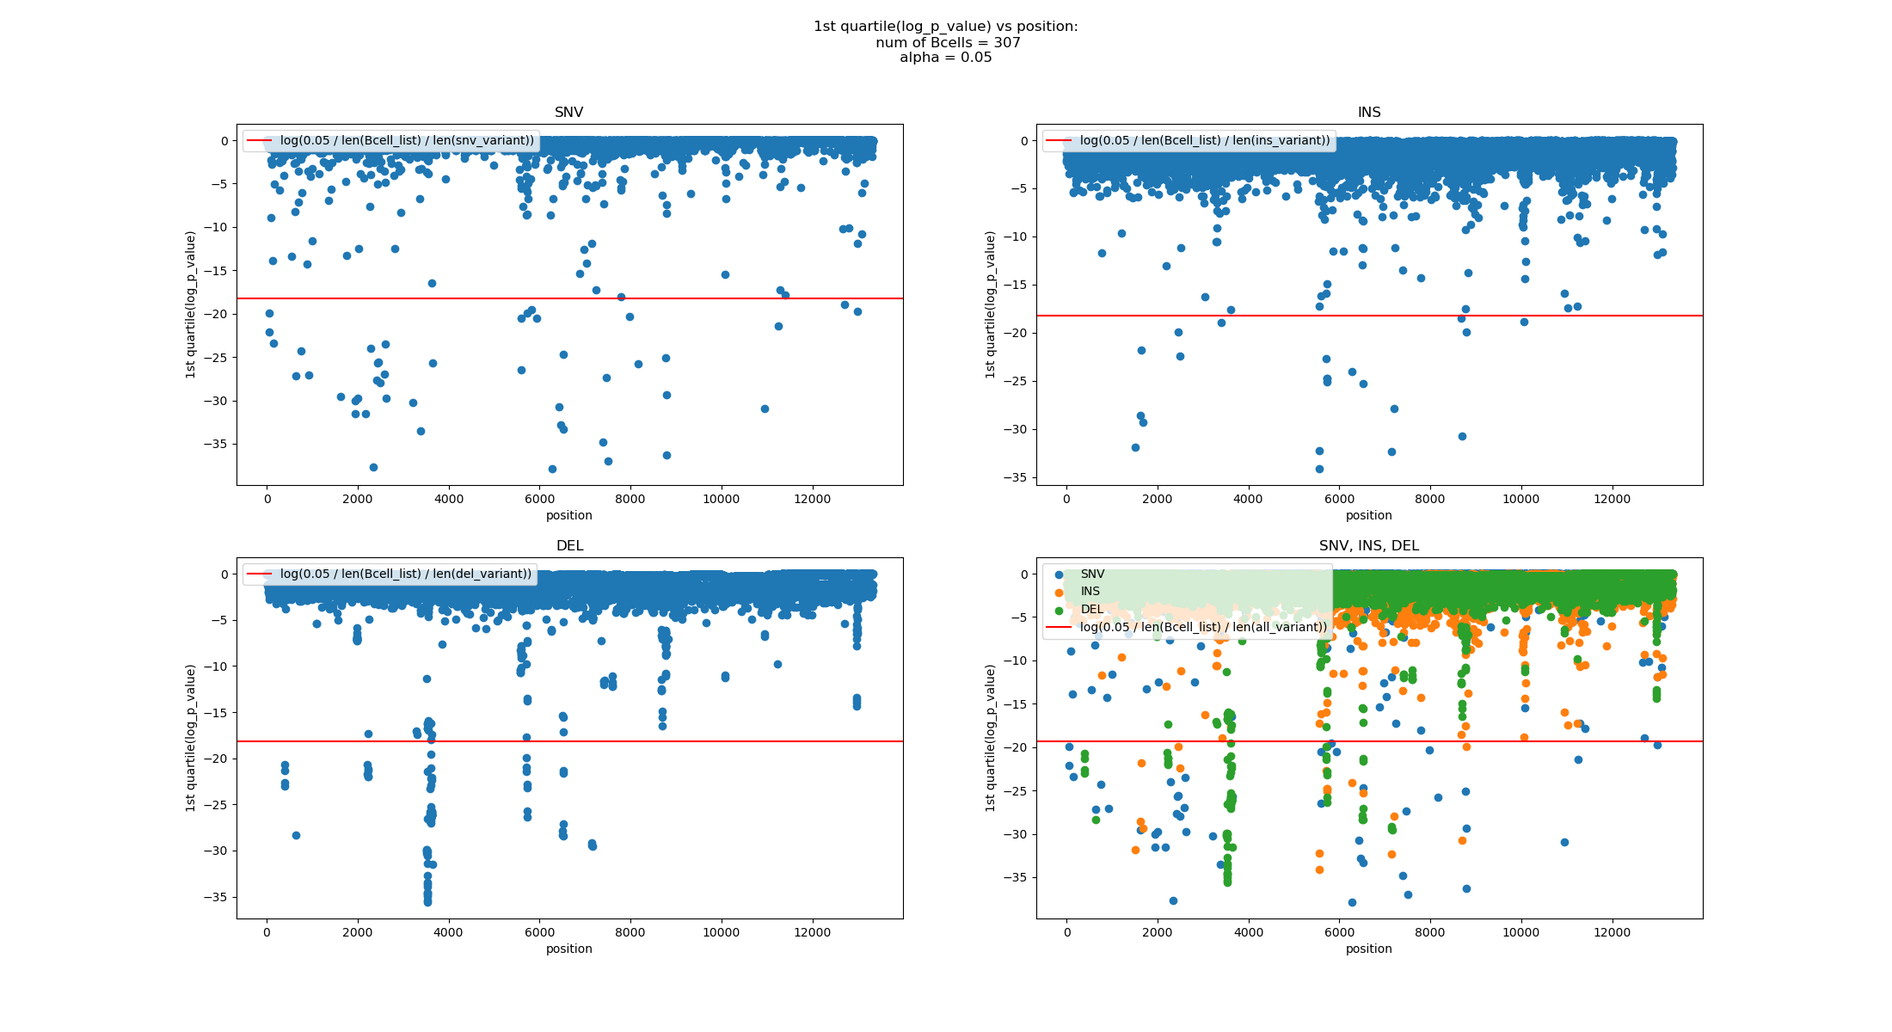
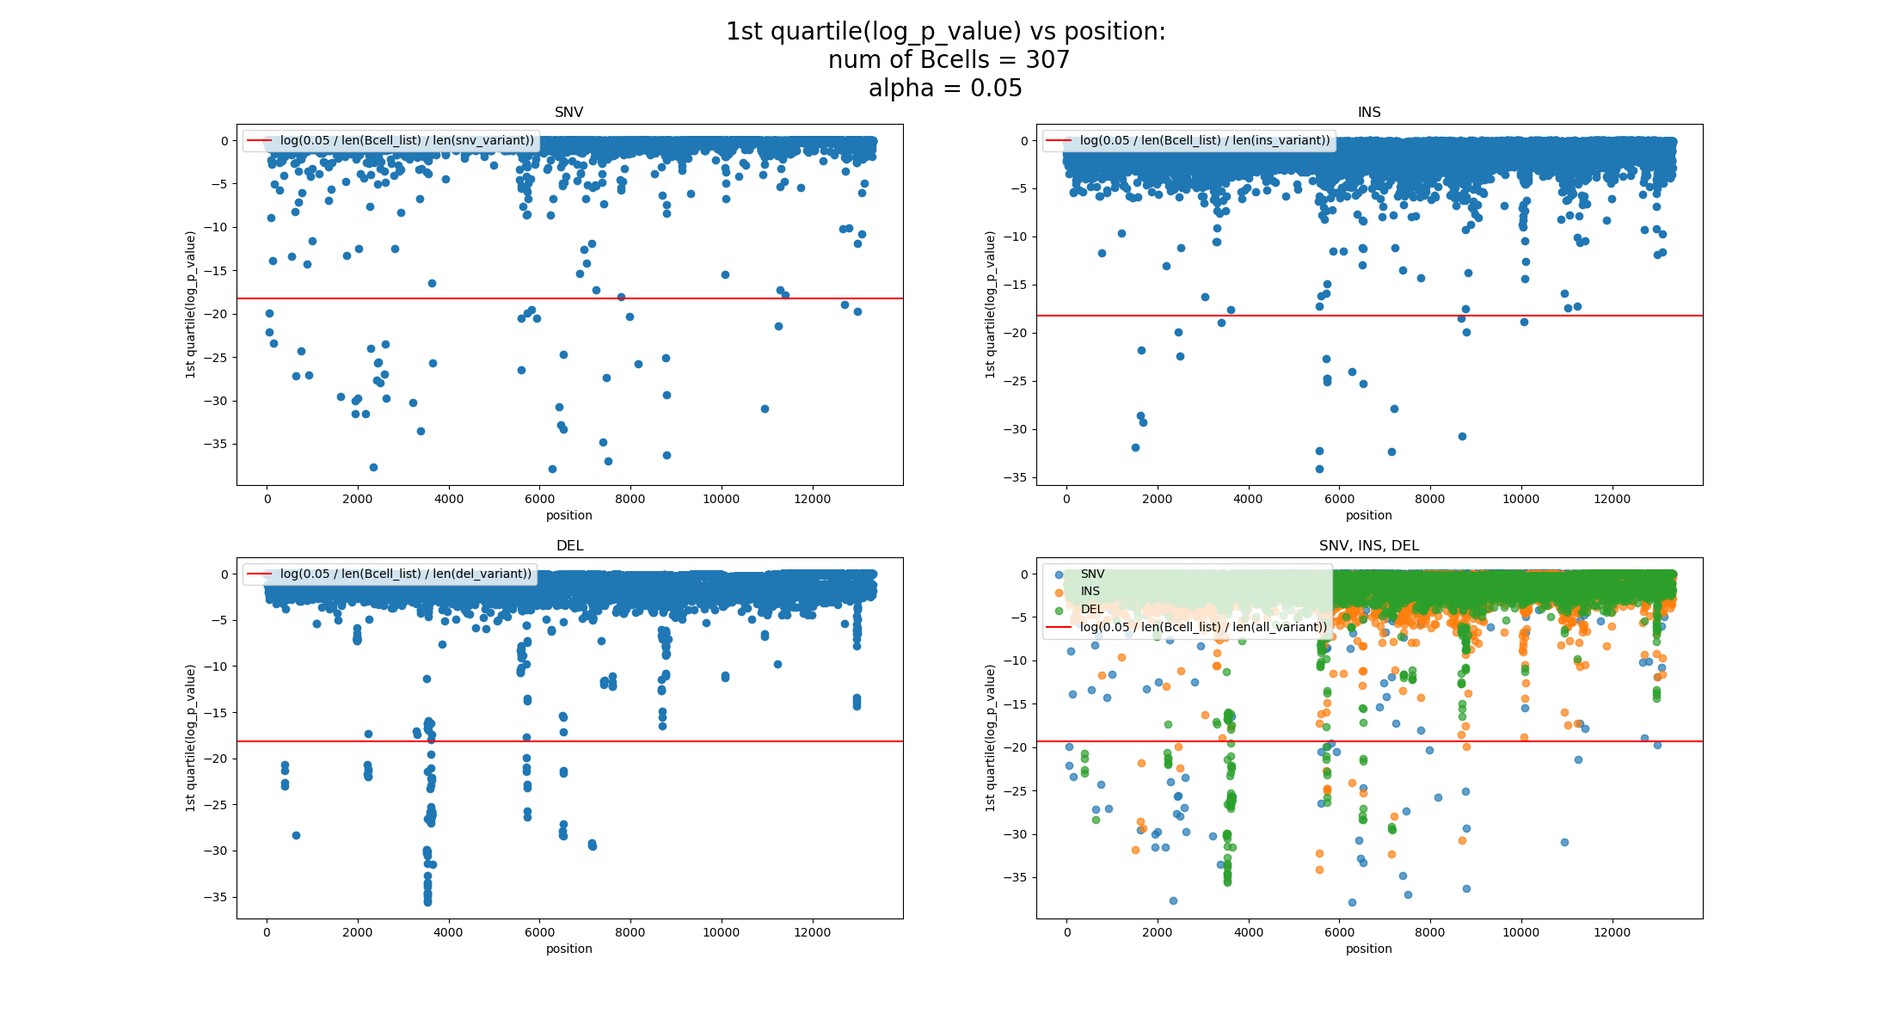
p-value -> probability

diff --git a/PSCA_variants/consensus/adhoc/internal_rDNAadhoc_variantcaller.py b/PSCA_variants/consensus/adhoc/internal_rDNAadhoc_variantcaller.py
@@ -221,158 +221,158 @@ gc.collect()
 
 
 
-# ------------------------------------------- calculate the log p-value for each site for each Bcell -------------------------------------------
+# ------------------------------------------- calculate the log prob for each site for each Bcell -------------------------------------------
 
-# pvalue_df = pd.DataFrame(columns=["POS", "log_P_SNV(Bcell_ID)", "log_P_INS(Bcell_ID)", "log_P_DEL(Bcell_ID)" for Bcell_ID in Bcell_IDlist])
-pvalue_df = pd.DataFrame(columns=["POS"])
-pvalue_df["POS"] = list(range(reflen))
+# prob_df = pd.DataFrame(columns=["POS", "log_P_SNV(Bcell_ID)", "log_P_INS(Bcell_ID)", "log_P_DEL(Bcell_ID)" for Bcell_ID in Bcell_IDlist])
+prob_df = pd.DataFrame(columns=["POS"])
+prob_df["POS"] = list(range(reflen))
 
 # calculate the log p-value for each site for each Bcell
 for Bcell in Bcell_IDlist:
     # poisson.log probability density function not probability mass function
-    # pvalue_df[f"log_P_{variant_type}({Bcell})"] = [log_continuous_poisson(df_posfreq_vs_Bcell[f"{variant_type}({Bcell})"][j], mean_vaf[j]) for j in range(reflen)]
+    # prob_df[f"log_P_{variant_type}({Bcell})"] = [log_continuous_poisson(df_posfreq_vs_Bcell[f"{variant_type}({Bcell})"][j], mean_vaf[j]) for j in range(reflen)]
     # log_p_value = log_continious_poisson(VariantCount_ij, mean_j * DP_ij): not VariantFrequency but VariantCount
-    # pvalue_df[f"log_P_{variant_type}({Bcell})"] = [log_continuous_poisson(df_posfreq_vs_Bcell[f"{variant_type}({Bcell})"][j] * DP_df[f"DP({Bcell})"][j], mean_vaf[j] * DP_df[f"DP({Bcell})"][j]) for j in range(reflen)]
+    # prob_df[f"log_P_{variant_type}({Bcell})"] = [log_continuous_poisson(df_posfreq_vs_Bcell[f"{variant_type}({Bcell})"][j] * DP_df[f"DP({Bcell})"][j], mean_vaf[j] * DP_df[f"DP({Bcell})"][j]) for j in range(reflen)]
  
     for variant_type in ["SNV", "INS", "DEL"]:
         if variant_type == "SNV":
             mean_vaf = mean_vaf_SNV
-            pvalue_df[f"log_P_SNV({Bcell})"] = [log_continuous_poisson(samples_vs_SNV_count[f"{Bcell}"][j], mean_vaf[j] * samples_vs_DP[f"{Bcell}"][j]) for j in range(reflen)]
+            prob_df[f"log_P_SNV({Bcell})"] = [log_continuous_poisson(samples_vs_SNV_count[f"{Bcell}"][j], mean_vaf[j] * samples_vs_DP[f"{Bcell}"][j]) for j in range(reflen)]
         elif variant_type == "INS":
             mean_vaf = mean_vaf_INS
-            pvalue_df[f"log_P_INS({Bcell})"] = [log_continuous_poisson(samples_vs_INS_count[f"{Bcell}"][j], mean_vaf[j] * samples_vs_DP[f"{Bcell}"][j]) for j in range(reflen)]
+            prob_df[f"log_P_INS({Bcell})"] = [log_continuous_poisson(samples_vs_INS_count[f"{Bcell}"][j], mean_vaf[j] * samples_vs_DP[f"{Bcell}"][j]) for j in range(reflen)]
         elif variant_type == "DEL":
             mean_vaf = mean_vaf_DEL
-            pvalue_df[f"log_P_DEL({Bcell})"] = [log_continuous_poisson(samples_vs_DEL_count[f"{Bcell}"][j], mean_vaf[j] * samples_vs_DP[f"{Bcell}"][j]) for j in range(reflen)]
+            prob_df[f"log_P_DEL({Bcell})"] = [log_continuous_poisson(samples_vs_DEL_count[f"{Bcell}"][j], mean_vaf[j] * samples_vs_DP[f"{Bcell}"][j]) for j in range(reflen)]
 
   
 # ------------------------------------------- export -------------------------------------------
-print(f"writing pvalue_df to {output_file_prefix}internal_logpvalue.csv")
+print(f"writing prob_df to {output_file_prefix}internal_logpvalue.csv")
 
 # remove the rows with all NA except POS
-# pvalue_df = pvalue_df.dropna(how="all", subset=pvalue_df.columns[1:])
-pvalue_df.to_csv(f"{output_file_prefix}internal_logpvalue.csv", sep=',', index=False, na_rep="")
+# prob_df = prob_df.dropna(how="all", subset=prob_df.columns[1:])
+prob_df.to_csv(f"{output_file_prefix}internal_logpvalue.csv", sep=',', index=False, na_rep="")
 
 # POS vs SNV log p-value
-output_snv = pvalue_df[["POS"] + [f"log_P_SNV({Bcell})" for Bcell in Bcell_IDlist]]
+output_snv = prob_df[["POS"] + [f"log_P_SNV({Bcell})" for Bcell in Bcell_IDlist]]
 # output_snv = output_snv.dropna(how="all", subset=output_snv.columns[1:])
 output_snv.to_csv(f"{output_file_prefix}internal_logpvalue_SNV.csv", sep=',', index=False, na_rep="")
 
 # POS vs INS log p-value
-output_ins = pvalue_df[["POS"] + [f"log_P_INS({Bcell})" for Bcell in Bcell_IDlist]]
+output_ins = prob_df[["POS"] + [f"log_P_INS({Bcell})" for Bcell in Bcell_IDlist]]
 # output_ins = output_ins.dropna(how="all", subset=output_ins.columns[1:])
 output_ins.to_csv(f"{output_file_prefix}internal_logpvalue_INS.csv", sep=',', index=False, na_rep="")
 # POS vs DEL log p-value
-output_del = pvalue_df[["POS"] + [f"log_P_DEL({Bcell})" for Bcell in Bcell_IDlist]]
+output_del = prob_df[["POS"] + [f"log_P_DEL({Bcell})" for Bcell in Bcell_IDlist]]
 # output_del = output_del.dropna(how="all", subset=output_del.columns[1:])
 output_del.to_csv(f"{output_file_prefix}internal_logpvalue_DEL.csv", sep=',', index=False, na_rep="")
 
 
-# ------------------------------------------- plot -------------------------------------------
-# plot the pvalue
+# # ------------------------------------------- plot -------------------------------------------
+# # plot the pvalue
 
-import matplotlib.pyplot as plt
+# import matplotlib.pyplot as plt
 
-# for each position j, plot the min_{Bcells i}(log_value_ij) vs j
+# # for each position j, plot the min_{Bcells i}(log_value_ij) vs j
 
-# use subplot and plot 
-    # 1. snv: pos vs min_{Bcells i}(log_value_ij)
-    # 2. ins: pos vs min_{Bcells i}(log_value_ij)
-    # 3. del: pos vs min_{Bcells i}(log_value_ij)
-    # 4. 3 plots in the same figure (different colors)
-    # * all figure have the y = log(0.05 / len(Bcell_list) / len(variant))
-    # in total, there are 4 figures
-alpha = 0.05
-fig = plt.figure(figsize=(22, 12))
+# # use subplot and plot 
+#     # 1. snv: pos vs min_{Bcells i}(log_value_ij)
+#     # 2. ins: pos vs min_{Bcells i}(log_value_ij)
+#     # 3. del: pos vs min_{Bcells i}(log_value_ij)
+#     # 4. 3 plots in the same figure (different colors)
+#     # * all figure have the y = log(0.05 / len(Bcell_list) / len(variant))
+#     # in total, there are 4 figures
+# alpha = 0.05
+# fig = plt.figure(figsize=(22, 12))
 
-log_alpha_limit = \
- log(alpha) - log(len(Bcell_IDlist)) - log((len(output_snv["POS"]) + len(output_ins["POS"]) + len(output_del["POS"])))
+# log_alpha_limit = \
+#  log(alpha) - log(len(Bcell_IDlist)) - log((len(output_snv["POS"]) + len(output_ins["POS"]) + len(output_del["POS"])))
 
-ax1 = fig.add_subplot(2, 2, 1)
-ax1.set_title("SNV")
-ax1.set_xlabel("position")
-ax1.set_ylabel("min(log_p_value)")
-# ax1.set_ylim(-10, 0)
-ax1.scatter(output_snv["POS"], [min([output_snv[f"log_P_SNV({Bcell})"][j] for Bcell in Bcell_IDlist]) for j in output_snv["POS"]])
-ax1.axhline(y=log(alpha) - log(len(Bcell_IDlist)) - log(len(output_snv["POS"])), color='r', linestyle='-', label="log(0.05 / len(Bcell_list) / len(snv_variant))")
-ax1.legend(loc = "upper left")
+# ax1 = fig.add_subplot(2, 2, 1)
+# ax1.set_title("SNV")
+# ax1.set_xlabel("position")
+# ax1.set_ylabel("min(log_p_value)")
+# # ax1.set_ylim(-10, 0)
+# ax1.scatter(output_snv["POS"], [min([output_snv[f"log_P_SNV({Bcell})"][j] for Bcell in Bcell_IDlist]) for j in output_snv["POS"]])
+# ax1.axhline(y=log(alpha) - log(len(Bcell_IDlist)) - log(len(output_snv["POS"])), color='r', linestyle='-', label="log(0.05 / len(Bcell_list) / len(snv_variant))")
+# ax1.legend(loc = "upper left")
 
-ax2 = fig.add_subplot(2, 2, 2)
-ax2.set_title("INS")
-ax2.set_xlabel("position")
-ax2.set_ylabel("min(log_p_value)")
-# ax2.set_ylim(-10, 0)
-ax2.scatter(output_ins["POS"], [min([output_ins[f"log_P_INS({Bcell})"][j] for Bcell in Bcell_IDlist]) for j in output_ins["POS"]])
-ax2.axhline(y=log(alpha) - log(len(Bcell_IDlist)) - log(len(output_ins["POS"])), color='r', linestyle='-', label="log(0.05 / len(Bcell_list) / len(ins_variant))")
-ax2.legend(loc = "upper left")
+# ax2 = fig.add_subplot(2, 2, 2)
+# ax2.set_title("INS")
+# ax2.set_xlabel("position")
+# ax2.set_ylabel("min(log_p_value)")
+# # ax2.set_ylim(-10, 0)
+# ax2.scatter(output_ins["POS"], [min([output_ins[f"log_P_INS({Bcell})"][j] for Bcell in Bcell_IDlist]) for j in output_ins["POS"]])
+# ax2.axhline(y=log(alpha) - log(len(Bcell_IDlist)) - log(len(output_ins["POS"])), color='r', linestyle='-', label="log(0.05 / len(Bcell_list) / len(ins_variant))")
+# ax2.legend(loc = "upper left")
 
-ax3 = fig.add_subplot(2, 2, 3)
-ax3.set_title("DEL")
-ax3.set_xlabel("position")
-ax3.set_ylabel("min(log_p_value)")
-# ax3.set_ylim(-10, 0)
-ax3.scatter(output_del["POS"], [min([output_del[f"log_P_DEL({Bcell})"][j] for Bcell in Bcell_IDlist]) for j in output_del["POS"]])
-ax3.axhline(y=log(alpha) - log(len(Bcell_IDlist)) - log(len(output_del["POS"])), color='r', linestyle='-', label="log(0.05 / len(Bcell_list) / len(del_variant))")
-ax3.legend(loc = "upper left")
-
-
-ax4 = fig.add_subplot(2, 2, 4)
-ax4.set_title("SNV, INS, DEL")
-ax4.set_xlabel("position")
-ax4.set_ylabel("min(log_p_value)")
-# ax4.set_ylim(-10, 0)
-ax4.scatter(output_snv["POS"], [min([output_snv[f"log_P_SNV({Bcell})"][j] for Bcell in Bcell_IDlist]) for j in output_snv["POS"]], label="SNV")
-ax4.scatter(output_ins["POS"], [min([output_ins[f"log_P_INS({Bcell})"][j] for Bcell in Bcell_IDlist]) for j in output_ins["POS"]], label="INS")
-ax4.scatter(output_del["POS"], [min([output_del[f"log_P_DEL({Bcell})"][j] for Bcell in Bcell_IDlist]) for j in output_del["POS"]], label="DEL")
-ax4.axhline(y=log(alpha) - log(len(Bcell_IDlist)) - log((len(output_snv["POS"]) + len(output_ins["POS"]) + len(output_del["POS"]))), color='r', linestyle='-', label="log(0.05 / len(Bcell_list) / len(all_variant))")
-ax4.legend(loc = "upper left")
+# ax3 = fig.add_subplot(2, 2, 3)
+# ax3.set_title("DEL")
+# ax3.set_xlabel("position")
+# ax3.set_ylabel("min(log_p_value)")
+# # ax3.set_ylim(-10, 0)
+# ax3.scatter(output_del["POS"], [min([output_del[f"log_P_DEL({Bcell})"][j] for Bcell in Bcell_IDlist]) for j in output_del["POS"]])
+# ax3.axhline(y=log(alpha) - log(len(Bcell_IDlist)) - log(len(output_del["POS"])), color='r', linestyle='-', label="log(0.05 / len(Bcell_list) / len(del_variant))")
+# ax3.legend(loc = "upper left")
 
 
-# save
-fig.savefig(f"{graph_dir}internal_minlogpvalue.png")
-print(f"{graph_dir}internal_minlogpvalue.png is saved")
+# ax4 = fig.add_subplot(2, 2, 4)
+# ax4.set_title("SNV, INS, DEL")
+# ax4.set_xlabel("position")
+# ax4.set_ylabel("min(log_p_value)")
+# # ax4.set_ylim(-10, 0)
+# ax4.scatter(output_snv["POS"], [min([output_snv[f"log_P_SNV({Bcell})"][j] for Bcell in Bcell_IDlist]) for j in output_snv["POS"]], label="SNV")
+# ax4.scatter(output_ins["POS"], [min([output_ins[f"log_P_INS({Bcell})"][j] for Bcell in Bcell_IDlist]) for j in output_ins["POS"]], label="INS")
+# ax4.scatter(output_del["POS"], [min([output_del[f"log_P_DEL({Bcell})"][j] for Bcell in Bcell_IDlist]) for j in output_del["POS"]], label="DEL")
+# ax4.axhline(y=log(alpha) - log(len(Bcell_IDlist)) - log((len(output_snv["POS"]) + len(output_ins["POS"]) + len(output_del["POS"]))), color='r', linestyle='-', label="log(0.05 / len(Bcell_list) / len(all_variant))")
+# ax4.legend(loc = "upper left")
 
 
-# the same plot but the y should be median(log_p_value) instead of min(log_p_value)
+# # save
+# fig.savefig(f"{graph_dir}internal_minlogpvalue.png")
+# print(f"{graph_dir}internal_minlogpvalue.png is saved")
 
-fig = plt.figure(figsize=(22, 12))
-fig.suptitle(f"median(log_p_value) vs position:\n num of Bcells = {len(Bcell_IDlist)}\n alpha = {alpha} ")
 
-ax1 = fig.add_subplot(2, 2, 1)
-ax1.set_title("SNV")
-ax1.set_xlabel("position")
-ax1.set_ylabel("median(log_p_value)")
-ax1.scatter(output_snv["POS"], [sorted([output_snv[f"log_P_SNV({Bcell})"][j] for Bcell in Bcell_IDlist])[len(Bcell_IDlist) // 2] for j in output_snv["POS"]])
-ax1.axhline(y=log(alpha) - log(len(Bcell_IDlist)) - log(len(output_snv["POS"])), color='r', linestyle='-', label="log(0.05 / len(Bcell_list) / len(snv_variant))")
-ax1.legend(loc = "upper left")
+# # the same plot but the y should be median(log_p_value) instead of min(log_p_value)
 
-ax2 = fig.add_subplot(2, 2, 2)
-ax2.set_title("INS")
-ax2.set_xlabel("position")
-ax2.set_ylabel("median(log_p_value)")
-ax2.scatter(output_ins["POS"], [sorted([output_ins[f"log_P_INS({Bcell})"][j] for Bcell in Bcell_IDlist])[len(Bcell_IDlist) // 2] for j in output_ins["POS"]])
-ax2.axhline(y=log(alpha) - log(len(Bcell_IDlist)) - log(len(output_ins["POS"])), color='r', linestyle='-', label="log(0.05 / len(Bcell_list) / len(ins_variant))")
-ax2.legend(loc = "upper left")
+# fig = plt.figure(figsize=(22, 12))
+# fig.suptitle(f"median(log_p_value) vs position:\n num of Bcells = {len(Bcell_IDlist)}\n alpha = {alpha} ")
 
-ax3 = fig.add_subplot(2, 2, 3)
-ax3.set_title("DEL")
-ax3.set_xlabel("position")
-ax3.set_ylabel("median(log_p_value)")
-ax3.scatter(output_del["POS"], [sorted([output_del[f"log_P_DEL({Bcell})"][j] for Bcell in Bcell_IDlist])[len(Bcell_IDlist) // 2] for j in output_del["POS"]])
-ax3.axhline(y=log(alpha) - log(len(Bcell_IDlist)) - log(len(output_del["POS"])), color='r', linestyle='-', label="log(0.05 / len(Bcell_list) / len(del_variant))")
-ax3.legend(loc = "upper left")
+# ax1 = fig.add_subplot(2, 2, 1)
+# ax1.set_title("SNV")
+# ax1.set_xlabel("position")
+# ax1.set_ylabel("median(log_p_value)")
+# ax1.scatter(output_snv["POS"], [sorted([output_snv[f"log_P_SNV({Bcell})"][j] for Bcell in Bcell_IDlist])[len(Bcell_IDlist) // 2] for j in output_snv["POS"]])
+# ax1.axhline(y=log(alpha) - log(len(Bcell_IDlist)) - log(len(output_snv["POS"])), color='r', linestyle='-', label="log(0.05 / len(Bcell_list) / len(snv_variant))")
+# ax1.legend(loc = "upper left")
 
-ax4 = fig.add_subplot(2, 2, 4)
-ax4.set_title("SNV, INS, DEL")
-ax4.set_xlabel("position")
-ax4.set_ylabel("median(log_p_value)")
-ax4.scatter(output_snv["POS"], [sorted([output_snv[f"log_P_SNV({Bcell})"][j] for Bcell in Bcell_IDlist])[len(Bcell_IDlist) // 2] for j in output_snv["POS"]], label="SNV")
-ax4.scatter(output_ins["POS"], [sorted([output_ins[f"log_P_INS({Bcell})"][j] for Bcell in Bcell_IDlist])[len(Bcell_IDlist) // 2] for j in output_ins["POS"]], label="INS")
-ax4.scatter(output_del["POS"], [sorted([output_del[f"log_P_DEL({Bcell})"][j] for Bcell in Bcell_IDlist])[len(Bcell_IDlist) // 2] for j in output_del["POS"]], label="DEL")
-ax4.axhline(y=log(alpha) - log(len(Bcell_IDlist)) - log((len(output_snv["POS"]) + len(output_ins["POS"]) + len(output_del["POS"]))), color='r', linestyle='-', label="log(0.05 / len(Bcell_list) / len(all_variant))")
-ax4.legend(loc = "upper left")
+# ax2 = fig.add_subplot(2, 2, 2)
+# ax2.set_title("INS")
+# ax2.set_xlabel("position")
+# ax2.set_ylabel("median(log_p_value)")
+# ax2.scatter(output_ins["POS"], [sorted([output_ins[f"log_P_INS({Bcell})"][j] for Bcell in Bcell_IDlist])[len(Bcell_IDlist) // 2] for j in output_ins["POS"]])
+# ax2.axhline(y=log(alpha) - log(len(Bcell_IDlist)) - log(len(output_ins["POS"])), color='r', linestyle='-', label="log(0.05 / len(Bcell_list) / len(ins_variant))")
+# ax2.legend(loc = "upper left")
 
-# save
-fig.savefig(f"{graph_dir}internal_medianlogpvalue.png")
-print(f"{graph_dir}internal_medianlogpvalue.png is saved")
+# ax3 = fig.add_subplot(2, 2, 3)
+# ax3.set_title("DEL")
+# ax3.set_xlabel("position")
+# ax3.set_ylabel("median(log_p_value)")
+# ax3.scatter(output_del["POS"], [sorted([output_del[f"log_P_DEL({Bcell})"][j] for Bcell in Bcell_IDlist])[len(Bcell_IDlist) // 2] for j in output_del["POS"]])
+# ax3.axhline(y=log(alpha) - log(len(Bcell_IDlist)) - log(len(output_del["POS"])), color='r', linestyle='-', label="log(0.05 / len(Bcell_list) / len(del_variant))")
+# ax3.legend(loc = "upper left")
+
+# ax4 = fig.add_subplot(2, 2, 4)
+# ax4.set_title("SNV, INS, DEL")
+# ax4.set_xlabel("position")
+# ax4.set_ylabel("median(log_p_value)")
+# ax4.scatter(output_snv["POS"], [sorted([output_snv[f"log_P_SNV({Bcell})"][j] for Bcell in Bcell_IDlist])[len(Bcell_IDlist) // 2] for j in output_snv["POS"]], label="SNV")
+# ax4.scatter(output_ins["POS"], [sorted([output_ins[f"log_P_INS({Bcell})"][j] for Bcell in Bcell_IDlist])[len(Bcell_IDlist) // 2] for j in output_ins["POS"]], label="INS")
+# ax4.scatter(output_del["POS"], [sorted([output_del[f"log_P_DEL({Bcell})"][j] for Bcell in Bcell_IDlist])[len(Bcell_IDlist) // 2] for j in output_del["POS"]], label="DEL")
+# ax4.axhline(y=log(alpha) - log(len(Bcell_IDlist)) - log((len(output_snv["POS"]) + len(output_ins["POS"]) + len(output_del["POS"]))), color='r', linestyle='-', label="log(0.05 / len(Bcell_list) / len(all_variant))")
+# ax4.legend(loc = "upper left")
+
+# # save
+# fig.savefig(f"{graph_dir}internal_medianlogpvalue.png")
+# print(f"{graph_dir}internal_medianlogpvalue.png is saved")
 

diff --git a/PSCA_variants/consensus/adhoc/internal_pvalue_plot.py b/PSCA_variants/consensus/adhoc/internal_pvalue_plot.py
@@ -62,7 +62,7 @@ with open(Bcell_IDlist_file, "r") as f:
     # in total, there are 4 figures
 alpha = 0.05
 fig = plt.figure(figsize=(22, 12))
-fig.suptitle(f"min(log_p_value) vs position:\n num of Bcells = {len(Bcell_IDlist)}\n alpha = {alpha} ")
+fig.suptitle(f"min(log_p_value) vs position:\n num of Bcells = {len(Bcell_IDlist)}\n alpha = {alpha} ", fontsize=20)
 
 log_alpha_limit = \
  log(alpha) - log(len(Bcell_IDlist)) - log((len(output_snv["POS"]) + len(output_ins["POS"]) + len(output_del["POS"])))
@@ -96,13 +96,13 @@ ax3.legend(loc = "upper left")
 
 
 ax4 = fig.add_subplot(2, 2, 4)
-ax4.set_title("SNV, INS, DEL")
+ax4.set_title("SNV, INS, DEL", fontsize=20)
 ax4.set_xlabel("position")
 ax4.set_ylabel("min(log_p_value)")
 # ax4.set_ylim(-10, 0)
-ax4.scatter(output_snv["POS"], [min([output_snv[f"log_P_SNV({Bcell})"][j] for Bcell in Bcell_IDlist]) for j in output_snv["POS"]], label="SNV")
-ax4.scatter(output_ins["POS"], [min([output_ins[f"log_P_INS({Bcell})"][j] for Bcell in Bcell_IDlist]) for j in output_ins["POS"]], label="INS")
-ax4.scatter(output_del["POS"], [min([output_del[f"log_P_DEL({Bcell})"][j] for Bcell in Bcell_IDlist]) for j in output_del["POS"]], label="DEL")
+ax4.scatter(output_snv["POS"], [min([output_snv[f"log_P_SNV({Bcell})"][j] for Bcell in Bcell_IDlist]) for j in output_snv["POS"]], label="SNV", alpha = 0.7)
+ax4.scatter(output_ins["POS"], [min([output_ins[f"log_P_INS({Bcell})"][j] for Bcell in Bcell_IDlist]) for j in output_ins["POS"]], label="INS", alpha = 0.7)
+ax4.scatter(output_del["POS"], [min([output_del[f"log_P_DEL({Bcell})"][j] for Bcell in Bcell_IDlist]) for j in output_del["POS"]], label="DEL", alpha = 0.7)
 ax4.axhline(y=log(alpha) - log(len(Bcell_IDlist)) - log((len(output_snv["POS"]) + len(output_ins["POS"]) + len(output_del["POS"]))), color='r', linestyle='-', label="log(0.05 / len(Bcell_list) / len(all_variant))")
 ax4.legend(loc = "upper left")
 
@@ -145,9 +145,9 @@ ax4 = fig.add_subplot(2, 2, 4)
 ax4.set_title("SNV, INS, DEL")
 ax4.set_xlabel("position")
 ax4.set_ylabel("median(log_p_value)")
-ax4.scatter(output_snv["POS"], [sorted([output_snv[f"log_P_SNV({Bcell})"][j] for Bcell in Bcell_IDlist])[len(Bcell_IDlist) // 2] for j in output_snv["POS"]], label="SNV")
-ax4.scatter(output_ins["POS"], [sorted([output_ins[f"log_P_INS({Bcell})"][j] for Bcell in Bcell_IDlist])[len(Bcell_IDlist) // 2] for j in output_ins["POS"]], label="INS")
-ax4.scatter(output_del["POS"], [sorted([output_del[f"log_P_DEL({Bcell})"][j] for Bcell in Bcell_IDlist])[len(Bcell_IDlist) // 2] for j in output_del["POS"]], label="DEL")
+ax4.scatter(output_snv["POS"], [sorted([output_snv[f"log_P_SNV({Bcell})"][j] for Bcell in Bcell_IDlist])[len(Bcell_IDlist) // 2] for j in output_snv["POS"]], label="SNV", alpha = 0.7)
+ax4.scatter(output_ins["POS"], [sorted([output_ins[f"log_P_INS({Bcell})"][j] for Bcell in Bcell_IDlist])[len(Bcell_IDlist) // 2] for j in output_ins["POS"]], label="INS", alpha = 0.7)
+ax4.scatter(output_del["POS"], [sorted([output_del[f"log_P_DEL({Bcell})"][j] for Bcell in Bcell_IDlist])[len(Bcell_IDlist) // 2] for j in output_del["POS"]], label="DEL", alpha = 0.7)
 ax4.axhline(y=log(alpha) - log(len(Bcell_IDlist)) - log((len(output_snv["POS"]) + len(output_ins["POS"]) + len(output_del["POS"]))), color='r', linestyle='-', label="log(0.05 / len(Bcell_list) / len(all_variant))")
 ax4.legend(loc = "upper left")
 
@@ -161,7 +161,7 @@ print(f"{graph_dir}internal_medianlogpvalue.png is saved")
 # the same plot but the y should be 1st quartile.(log_p_value) instead of min(log_p_value)
 
 fig = plt.figure(figsize=(22, 12))
-fig.suptitle(f"1st quartile(log_p_value) vs position:\n num of Bcells = {len(Bcell_IDlist)}\n alpha = {alpha} ")
+fig.suptitle(f"1st quartile(log_p_value) vs position:\n num of Bcells = {len(Bcell_IDlist)}\n alpha = {alpha} ", fontsize=20)
 
 ax1 = fig.add_subplot(2, 2, 1)
 ax1.set_title("SNV")
@@ -191,9 +191,9 @@ ax4 = fig.add_subplot(2, 2, 4)
 ax4.set_title("SNV, INS, DEL")
 ax4.set_xlabel("position")
 ax4.set_ylabel("1st quartile(log_p_value)")
-ax4.scatter(output_snv["POS"], [sorted([output_snv[f"log_P_SNV({Bcell})"][j] for Bcell in Bcell_IDlist])[len(Bcell_IDlist) // 4] for j in output_snv["POS"]], label="SNV")
-ax4.scatter(output_ins["POS"], [sorted([output_ins[f"log_P_INS({Bcell})"][j] for Bcell in Bcell_IDlist])[len(Bcell_IDlist) // 4] for j in output_ins["POS"]], label="INS")
-ax4.scatter(output_del["POS"], [sorted([output_del[f"log_P_DEL({Bcell})"][j] for Bcell in Bcell_IDlist])[len(Bcell_IDlist) // 4] for j in output_del["POS"]], label="DEL")
+ax4.scatter(output_snv["POS"], [sorted([output_snv[f"log_P_SNV({Bcell})"][j] for Bcell in Bcell_IDlist])[len(Bcell_IDlist) // 4] for j in output_snv["POS"]], label="SNV", alpha = 0.7)
+ax4.scatter(output_ins["POS"], [sorted([output_ins[f"log_P_INS({Bcell})"][j] for Bcell in Bcell_IDlist])[len(Bcell_IDlist) // 4] for j in output_ins["POS"]], label="INS", alpha = 0.7)
+ax4.scatter(output_del["POS"], [sorted([output_del[f"log_P_DEL({Bcell})"][j] for Bcell in Bcell_IDlist])[len(Bcell_IDlist) // 4] for j in output_del["POS"]], label="DEL", alpha = 0.7)
 ax4.axhline(y=log(alpha) - log(len(Bcell_IDlist)) - log((len(output_snv["POS"]) + len(output_ins["POS"]) + len(output_del["POS"]))), color='r', linestyle='-', label="log(0.05 / len(Bcell_list) / len(all_variant))")
 ax4.legend(loc = "upper left")
 
